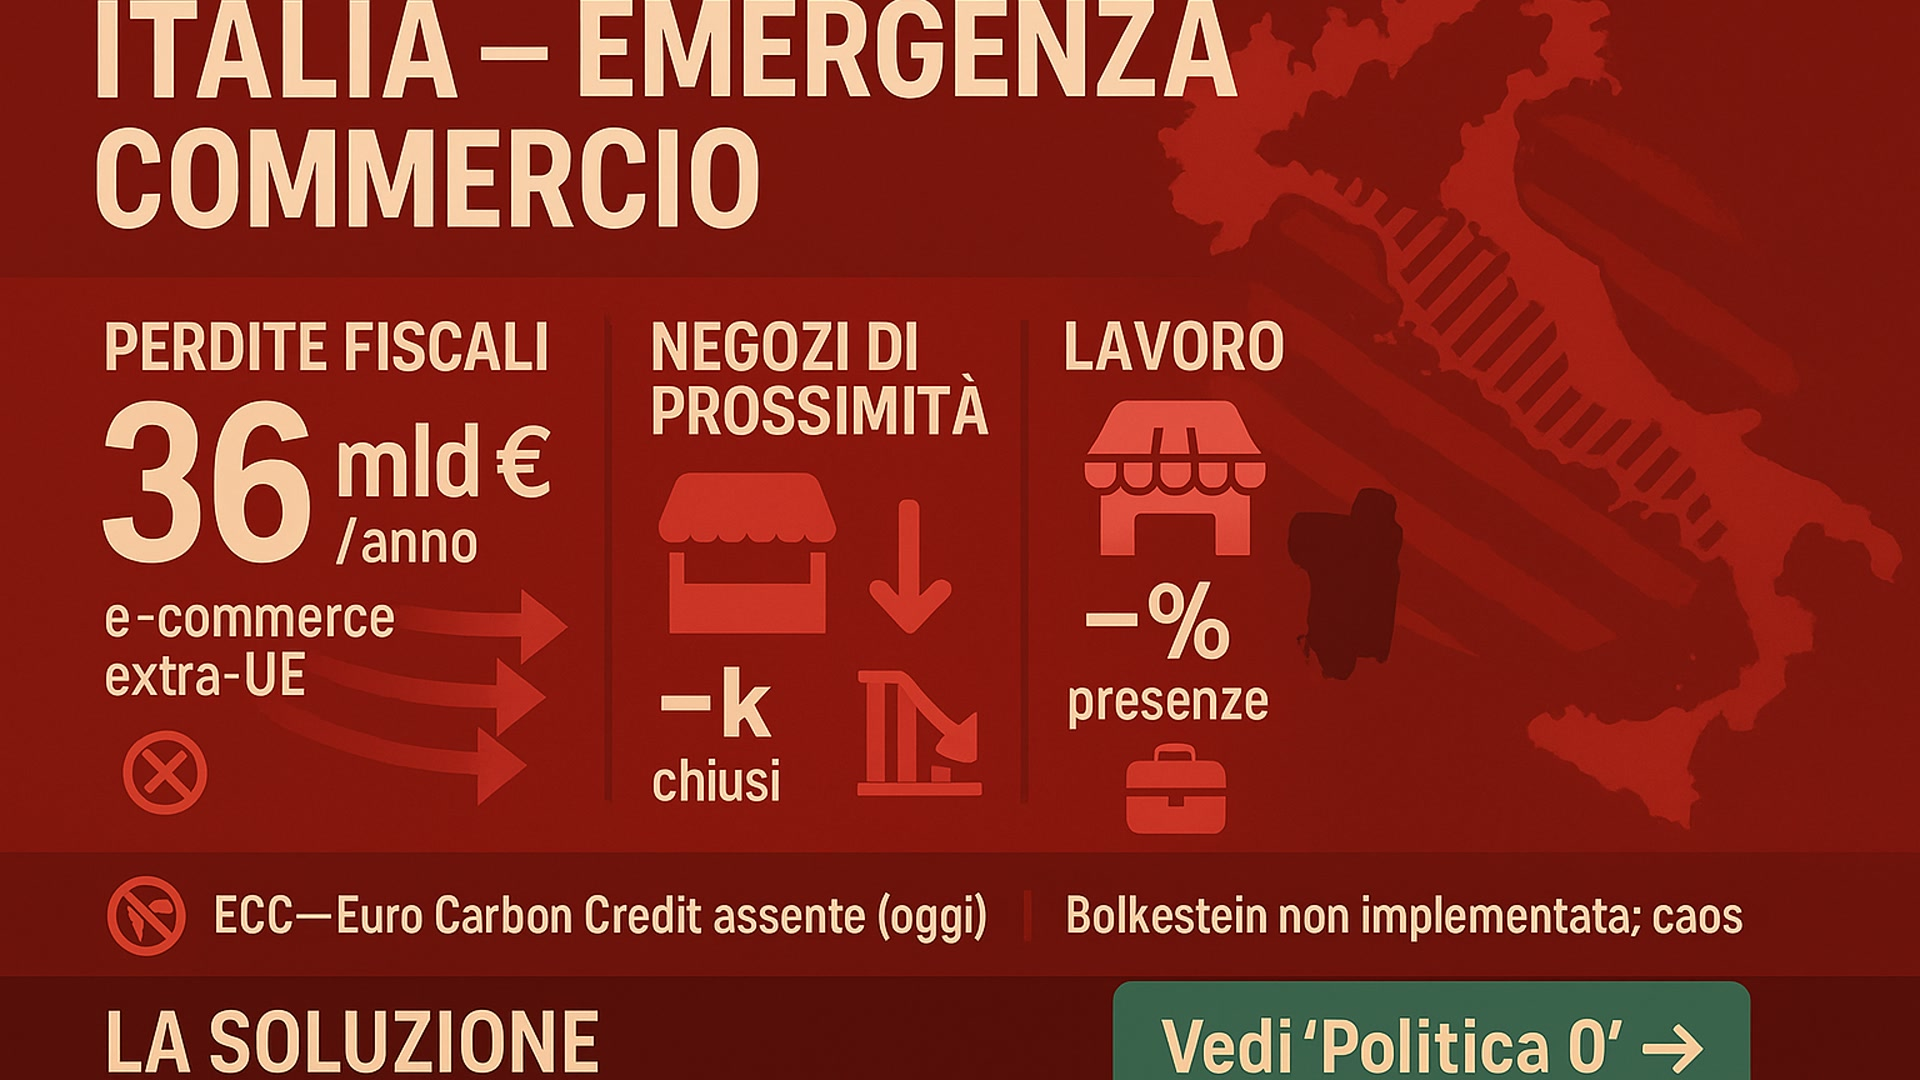
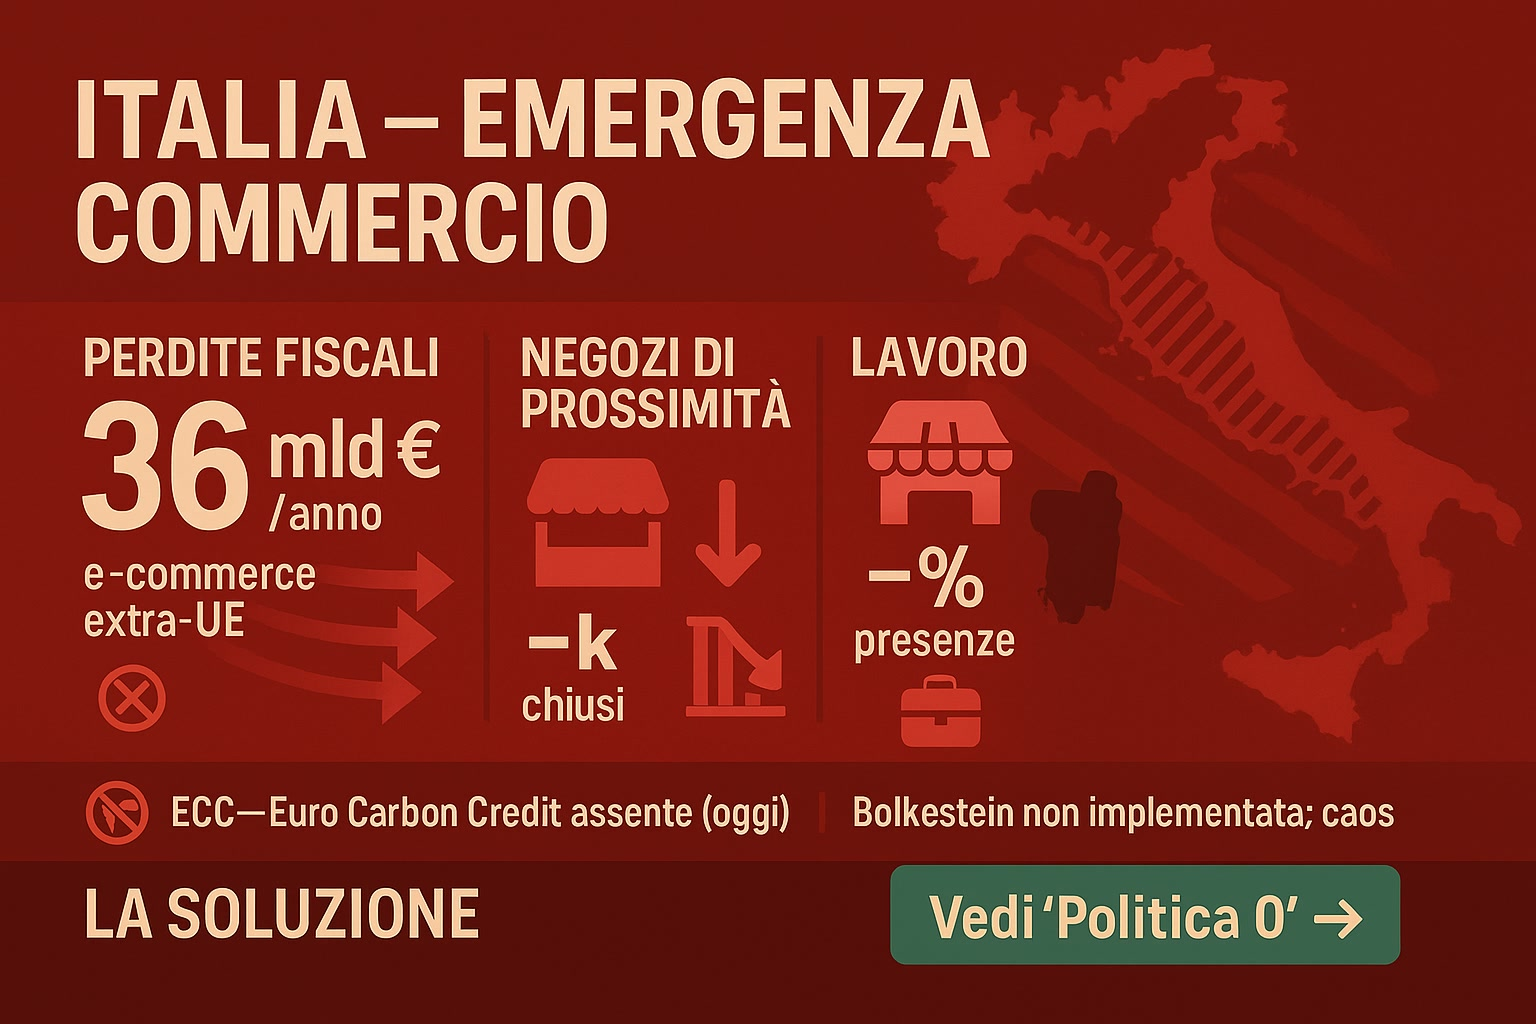
fix: Correct lightbox proportions for 3:2 slides
✅ CSS: Changed lightbox to aspect-ratio 3:2 (1536x1024)
✅ Frame: Reduced width to 90vw max 1200px for better fit
✅ Image: object-fit contain to show full slide without cropping
✅ Mobile: Optimized for 95vw with maintained aspect ratio
✅ Slide-01: Reprocessed to original 1536x1024 (212KB)

Now slides display completely without top/bottom cuts!

diff --git a/landing/pol0/index.html b/landing/pol0/index.html
@@ -29,8 +29,8 @@
       background:rgba(11,59,62,.96);z-index:50;padding:env(safe-area-inset-top) env(safe-area-inset-right)
       calc(env(safe-area-inset-bottom) + 8px) env(safe-area-inset-left)}
     .lightbox.on{display:flex}
-    .frame{max-width:min(96vw,1600px);max-height:calc(100dvh - 100px);position:relative}
-    .frame img{max-width:100%;max-height:calc(100dvh - 140px);border-radius:14px;box-shadow:var(--shadow);
+    .frame{max-width:min(90vw,1200px);max-height:calc(90vw * 2/3, 800px);position:relative;aspect-ratio:3/2}
+    .frame img{width:100%;height:100%;object-fit:contain;border-radius:14px;box-shadow:var(--shadow);
       transform-origin:center center;transition:transform .2s ease}
     .ui{position:absolute;left:0;right:0;bottom:-48px;display:flex;gap:8px;justify-content:center}
     .btn{background:rgba(255,255,255,.08);color:#fff;border:1px solid rgba(255,255,255,.2);
@@ -46,7 +46,7 @@
     body.lb-open main{filter:blur(2px) brightness(.5); pointer-events:none;}
     
     @media (max-width: 900px){
-      .frame{max-width:98vw;max-height:82vh}
+      .frame{max-width:95vw;aspect-ratio:3/2}
       .ui{inset:auto 0 -46px 0}
       .btn{padding:7px 10px;font-size:14px}
     }
